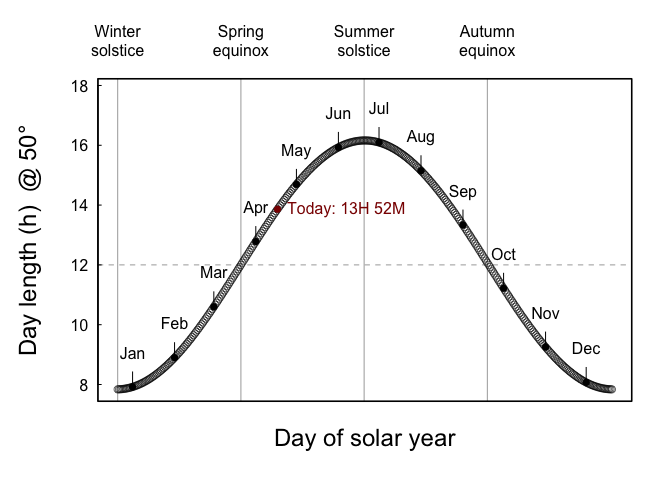
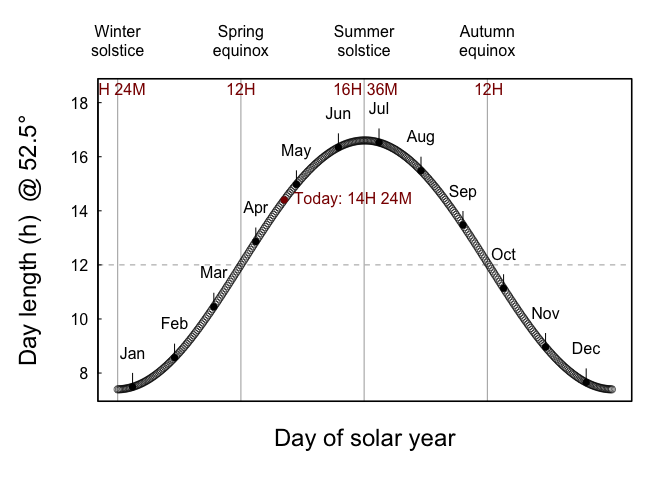
Updated with equations

diff --git a/Day-length-predictor.md b/Day-length-predictor.md
@@ -1,7 +1,7 @@
 Day length predictor
 ================
 RKOpTris
-2024-04-16
+2024-04-22
 
 ## Abstract
 
@@ -56,9 +56,67 @@ on the side facing away. (Remember this is at the summer solstice.)
 Now we can do a bit of trigonometry to find out the proportion of the
 circle that experiences light and the proportion that experiences dark.
 
-![Trigonometric workings that calculate the lengths of various lines in
-the geometric figure that give us length of day and night at the summer
-solsice at 60N.](workings.png)
+First we need to find the angle
+![\\theta_1](https://latex.codecogs.com/png.image?%5Cdpi%7B110%7D&space;%5Cbg_white&space;%5Ctheta_1 "\theta_1"),
+which is just a case of subtracting our latitude angle
+(![\\theta = 60](https://latex.codecogs.com/png.image?%5Cdpi%7B110%7D&space;%5Cbg_white&space;%5Ctheta%20%3D%2060 "\theta = 60"))
+subtracted from 90 (degrees):
+
+![\\theta\_{1} = 90 - \\theta](https://latex.codecogs.com/png.image?%5Cdpi%7B110%7D&space;%5Cbg_white&space;%5Ctheta_%7B1%7D%20%3D%2090%20-%20%5Ctheta "\theta_{1} = 90 - \theta")
+
+And
+![h\_{1}](https://latex.codecogs.com/png.image?%5Cdpi%7B110%7D&space;%5Cbg_white&space;h_%7B1%7D "h_{1}")
+is just the radius of our circle:
+
+![h\_{1} = r](https://latex.codecogs.com/png.image?%5Cdpi%7B110%7D&space;%5Cbg_white&space;h_%7B1%7D%20%3D%20r "h_{1} = r")
+
+Then we can work out the opposite side of that triangle, which is:
+
+![o\_{1} = r \\cdot sin\\theta\_{1}](https://latex.codecogs.com/png.image?%5Cdpi%7B110%7D&space;%5Cbg_white&space;o_%7B1%7D%20%3D%20r%20%5Ccdot%20sin%5Ctheta_%7B1%7D "o_{1} = r \cdot sin\theta_{1}")
+
+The opposite side of this triangle
+(![o\_{1}](https://latex.codecogs.com/png.image?%5Cdpi%7B110%7D&space;%5Cbg_white&space;o_%7B1%7D "o_{1}"))
+is the radius of the circle that can be drawn at our chosen latitude. We
+then need the length of the adjacent side
+(![a](https://latex.codecogs.com/png.image?%5Cdpi%7B110%7D&space;%5Cbg_white&space;a "a"))
+in order to calculate
+![o\_{2}](https://latex.codecogs.com/png.image?%5Cdpi%7B110%7D&space;%5Cbg_white&space;o_%7B2%7D "o_{2}"),
+a triangle that
+![a](https://latex.codecogs.com/png.image?%5Cdpi%7B110%7D&space;%5Cbg_white&space;a "a")
+is also the adjacent side to the angle 23.5 degrees (the axial tilt,
+which we already know).
+
+![a^{2} = {h\_{1}}^{2} - {o\_{1}}^{2}](https://latex.codecogs.com/png.image?%5Cdpi%7B110%7D&space;%5Cbg_white&space;a%5E%7B2%7D%20%3D%20%7Bh_%7B1%7D%7D%5E%7B2%7D%20-%20%7Bo_%7B1%7D%7D%5E%7B2%7D "a^{2} = {h_{1}}^{2} - {o_{1}}^{2}")
+
+Opposite side
+(![o\_{2}](https://latex.codecogs.com/png.image?%5Cdpi%7B110%7D&space;%5Cbg_white&space;o_%7B2%7D "o_{2}"))
+is key in calculating the length of day/night as this is the line that
+intersects the vertical day/night line. Any part of the right side of
+the vertical line is in the light, and anything on the left side is in
+darkness.
+
+![o\_{2} = a \\cdot tan23.5](https://latex.codecogs.com/png.image?%5Cdpi%7B110%7D&space;%5Cbg_white&space;o_%7B2%7D%20%3D%20a%20%5Ccdot%20tan23.5 "o_{2} = a \cdot tan23.5")
+
+We then need to transform
+![o\_{2}](https://latex.codecogs.com/png.image?%5Cdpi%7B110%7D&space;%5Cbg_white&space;o_%7B2%7D "o_{2}")
+so that it represents the amount of the circumference of our circle at
+60 degrees that is in light or dark. This is indicated by the line drawn
+parallel to the axis tilt which intersects the day/night vertical line.
+We know
+![o\_{2}](https://latex.codecogs.com/png.image?%5Cdpi%7B110%7D&space;%5Cbg_white&space;o_%7B2%7D "o_{2}")
+and
+![o\_{1}](https://latex.codecogs.com/png.image?%5Cdpi%7B110%7D&space;%5Cbg_white&space;o_%7B1%7D "o_{1}")
+so we can calculate
+![\\theta\_{3}](https://latex.codecogs.com/png.image?%5Cdpi%7B110%7D&space;%5Cbg_white&space;%5Ctheta_%7B3%7D "\theta_{3}"):
+
+![\\theta\_{3} = sin^{-1}\\frac{o\_{2}}{o\_{1}}](https://latex.codecogs.com/png.image?%5Cdpi%7B110%7D&space;%5Cbg_white&space;%5Ctheta_%7B3%7D%20%3D%20sin%5E%7B-1%7D%5Cfrac%7Bo_%7B2%7D%7D%7Bo_%7B1%7D%7D "\theta_{3} = sin^{-1}\frac{o_{2}}{o_{1}}")
+
+And then it is just a case of working out how many degrees are in light
+(S), and how many are in dark (D):
+
+![S = 360 - 180 - (2 \\cdot \\theta\_{3})](https://latex.codecogs.com/png.image?%5Cdpi%7B110%7D&space;%5Cbg_white&space;S%20%3D%20360%20-%20180%20-%20%282%20%5Ccdot%20%5Ctheta_%7B3%7D%29 "S = 360 - 180 - (2 \cdot \theta_{3})")
+
+![D = 360 - S](https://latex.codecogs.com/png.image?%5Cdpi%7B110%7D&space;%5Cbg_white&space;D%20%3D%20360%20-%20S "D = 360 - S")
 
 So now we have some equations, we can fit that into code!
 
@@ -104,18 +162,18 @@ max_day_length <- function(latitude, radius = 5, verbose = T){
 }
 ```
 
-So let’s try the code! So for a latitude of 50N (or 50S), maximum day
-length is:
+So let’s try the code! So for a latitude of 52.5N (or 52.5S), maximum
+day length is:
 
 ``` r
-my_lat <- 50
+my_lat <- 52.5
 max_day <- max_day_length(my_lat, 5, verbose = F)
 min_day <- 24 - max_day
 max_day_length(my_lat, verbose = T)
 ```
 
-    ## [1] "Max day length: 16.2"
-    ## [1] "Min night length: 7.8"
+    ## [1] "Max day length: 16.6"
+    ## [1] "Min night length: 7.4"
 
 At the summer solstice, our model calculates that the day lasts 16.2
 hours, and consequently the night (24 - daylight hours) is 7.8 hours. As
@@ -255,11 +313,11 @@ internal_axis_ticks(2, 2)
 box()
 ```
 
-![](Day-length-predictor_files/figure-gfm/main%20plot-1.png)<!-- -->
+![](Day-length-predictor_files/figure-gfm/main_plot-1.png)<!-- -->
 
-And there we go, our model predicts that the day length at 50N on 16th
-April 2024 will be 13 hours, 48 minutes. This can be checked against a
-weather app or website. It’s out by about 5 minutes. Not bad!
+And there we go, our model predicts that the day length at 52.5N on 22nd
+April 2024 will be 14 hours, 10 minutes. This can be checked against a
+weather app or website. It’s out by about 3 minutes. Not too bad!
 
 ## Conclusion
 
